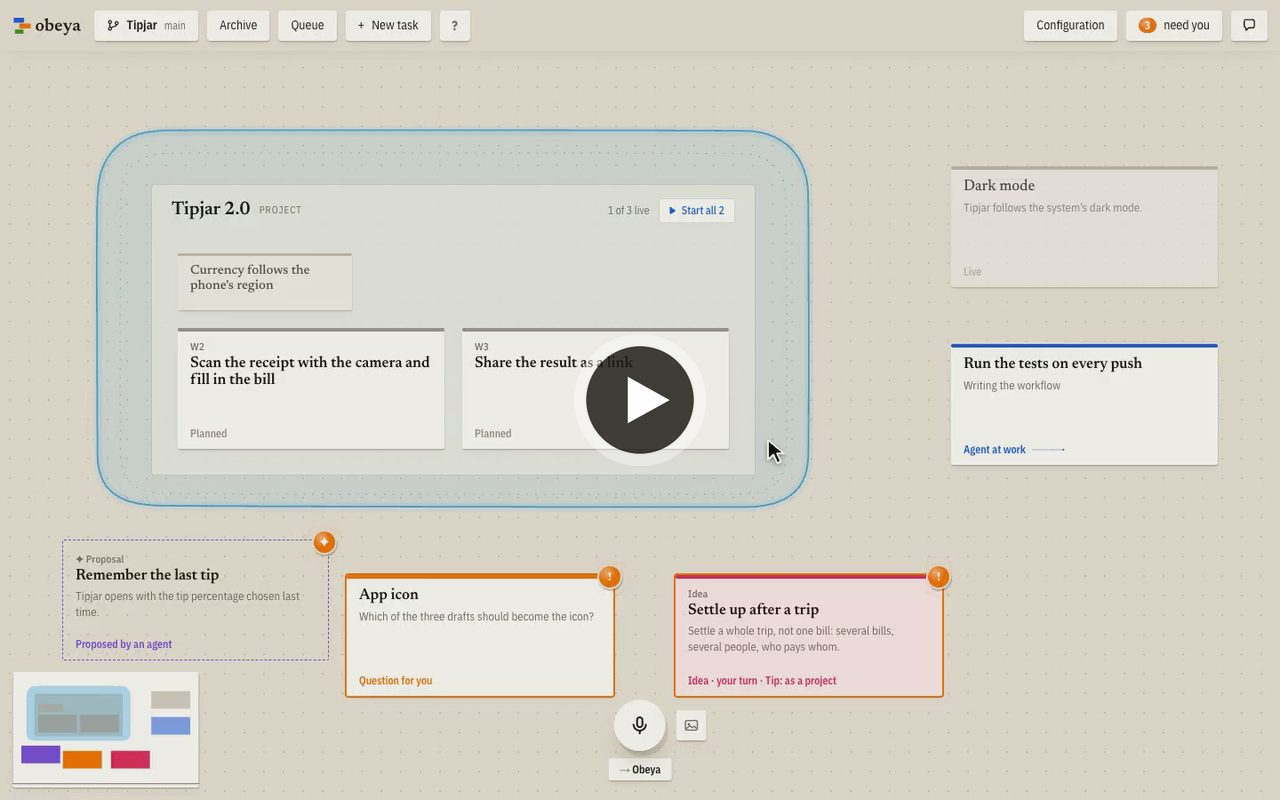
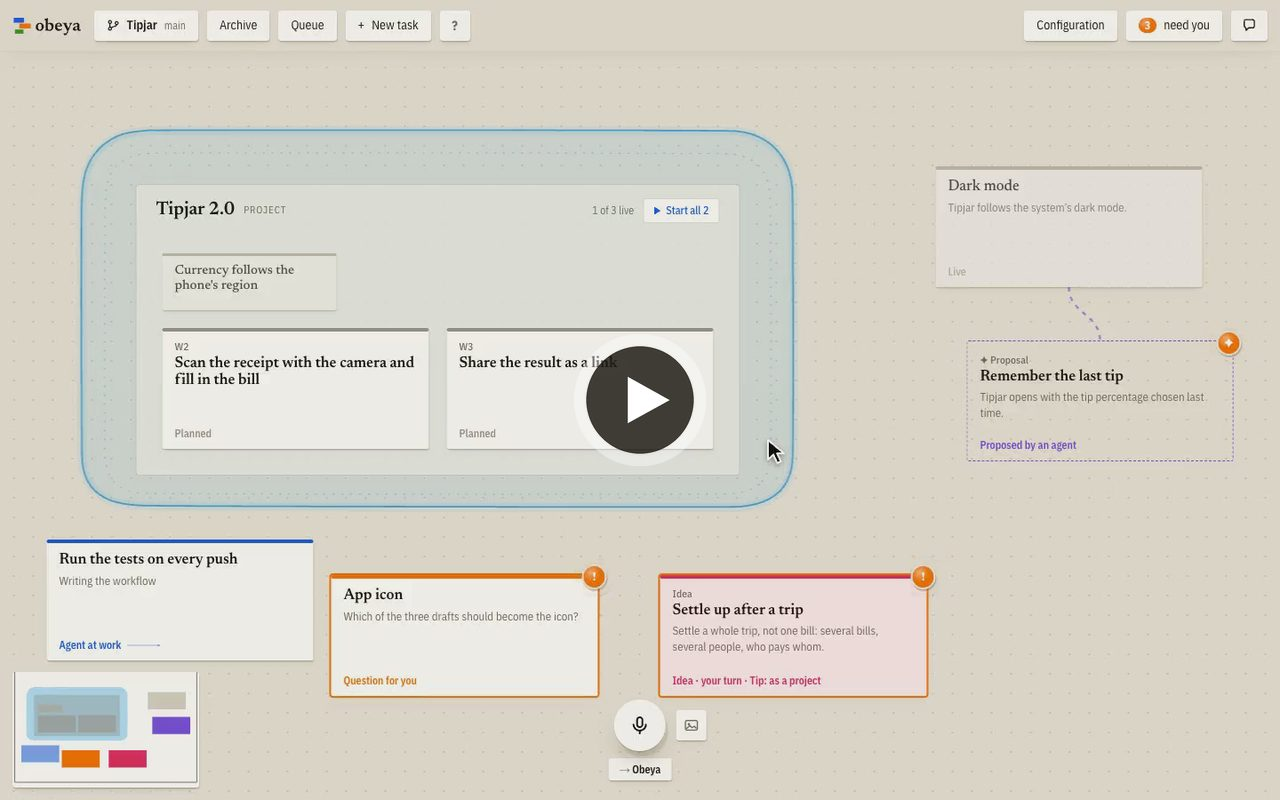
Hang the hero video's proposal off its card and cut its agent's start once
The proposal "Remember the last tip" stood alone at the bottom left; it now hangs off Dark mode with
the dashed line, where Obeya puts a real proposal, and "Run the tests on every push" takes its old
place. The wait for the agent to start and the wait for its first steps were two cuts with a glimpse
between them; they are one cut now. The camera no longer pans in the last two scenes: the proposal,
the idea and the new task are in view. Poster and README picture taken again from the new opening.

diff --git a/scripts/hero-video/stage.ts b/scripts/hero-video/stage.ts
@@ -29,8 +29,17 @@ export function writeStage(file: string) {
     cards: [
       { key: 'P', project: 'docs/plan/tipjar-2.md', x: 60, y: 120 },
       { key: 'D', title: 'Dark mode', body: 'Tipjar follows the system’s dark mode.', state: 'live', x: 960, y: 100, createdAgo: '1d' },
+      // hangs off Dark mode with a dashed line, where Obeya puts a proposal: right below the card it came from
+      {
+        key: 'Q',
+        title: 'Remember the last tip',
+        body: 'Tipjar opens with the tip percentage chosen last time.',
+        state: 'proposal',
+        from: 'D',
+        row: { proposal: { reason: 'Noticed while working on Dark mode: most people pick the same tip every time.', questions: [] } },
+      },
       // working without an agent: no workspace, so a scratch Obeya with real workers leaves it be
-      { key: 'C', title: 'Run the tests on every push', body: 'A GitHub Actions workflow runs bun test on every push and pull request.', state: 'working', statusLine: 'Writing the workflow', scope: ['.github/workflows/test.yml'], x: 960, y: 300 },
+      { key: 'C', title: 'Run the tests on every push', body: 'A GitHub Actions workflow runs bun test on every push and pull request.', state: 'working', statusLine: 'Writing the workflow', scope: ['.github/workflows/test.yml'], x: -40, y: 520 },
       { key: 'I', title: 'App icon', body: 'An icon for the home screen.', state: 'waiting', need: 'question', question: { text: 'Which of the three drafts should become the icon?', options: ['The jar', 'The coin', 'The receipt'] }, scope: ['icon.svg'], x: 280, y: 560 },
       {
         key: 'T',
@@ -51,15 +60,6 @@ export function writeStage(file: string) {
             mocks: [],
           },
         },
-      },
-      {
-        key: 'Q',
-        title: 'Remember the last tip',
-        body: 'Tipjar opens with the tip percentage chosen last time.',
-        state: 'proposal',
-        x: -40,
-        y: 520,
-        row: { proposal: { reason: 'Noticed while working on Dark mode: most people pick the same tip every time.', questions: [] } },
       },
     ],
     groups: [{ name: 'Tipjar 2.0', cards: ['P'] }],

diff --git a/scripts/hero-video/demo.ts b/scripts/hero-video/demo.ts
@@ -82,14 +82,6 @@ async function speak(d: Director) {
   await d.page.keyboard.up('Space');
 }
 
-/** Pans the canvas by (dx, dy) screen pixels in small steps, as a trackpad would. */
-async function pan(d: Director, dx: number, dy: number, steps = 30) {
-  for (let i = 0; i < steps; i++) {
-    await d.page.mouse.wheel(-dx / steps, -dy / steps);
-    await d.wait(16);
-  }
-}
-
 const scenes: Scene[] = [
   {
     title: 'One canvas',
@@ -141,10 +133,11 @@ const scenes: Scene[] = [
         await d.click(split(d).getByRole('button', { name: 'Start agent' }));
       }
       await d.untilSpoken(1);
-      await d.skip(() => split(d).getByText(/Agent at work/i).first().waitFor({ timeout: 90_000 }));
       await d.clearHighlights();
-      // until the agent has a few steps behind it to show
+      // until the agent works and has a few steps behind it to show: one cut, two in a row jumped
+      // twice with a glimpse between them
       await d.skip(async () => {
+        await split(d).getByText(/Agent at work/i).first().waitFor({ timeout: 90_000 });
         await statusLine();
         await d.wait(1000);
       });
@@ -189,9 +182,7 @@ const scenes: Scene[] = [
     title: 'Proposals and ideas',
     say: narration.proposals,
     run: async (d) => {
-      // the camera stands on the new card at the right; the proposal is off to the left
-      await d.page.mouse.move(900, 450);
-      await pan(d, 580, -60);
+      // the camera stands on the new card; the proposal hangs off Dark mode above it, the idea is to its left
       await d.page.mouse.move(1380, 600);
       await d.highlight(card(d, 'Remember the last tip'), 'proposal');
       await d.untilSpoken(0.36);
@@ -208,10 +199,6 @@ const scenes: Scene[] = [
     title: 'The big room',
     say: narration.room,
     run: async (d) => {
-      // back to the task the video built, at the right edge after the pan
-      await d.page.mouse.move(900, 450);
-      await pan(d, -260, 0);
-      await d.page.mouse.move(1380, 600);
       await d.highlight(split(d), 'on main');
       await d.untilSpoken(0.25);
       await d.clearHighlights();
